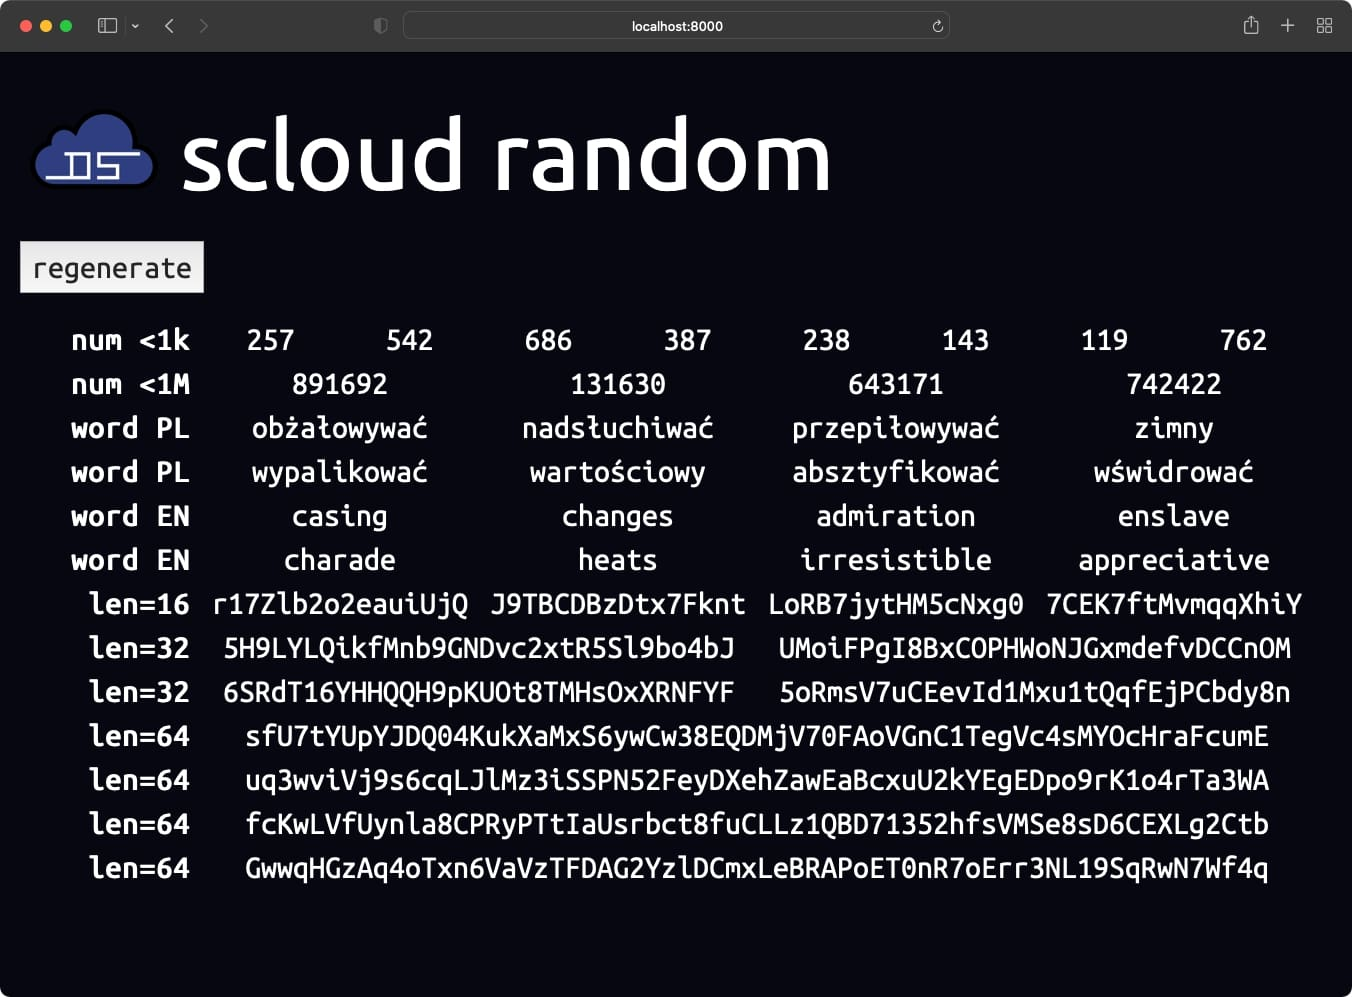
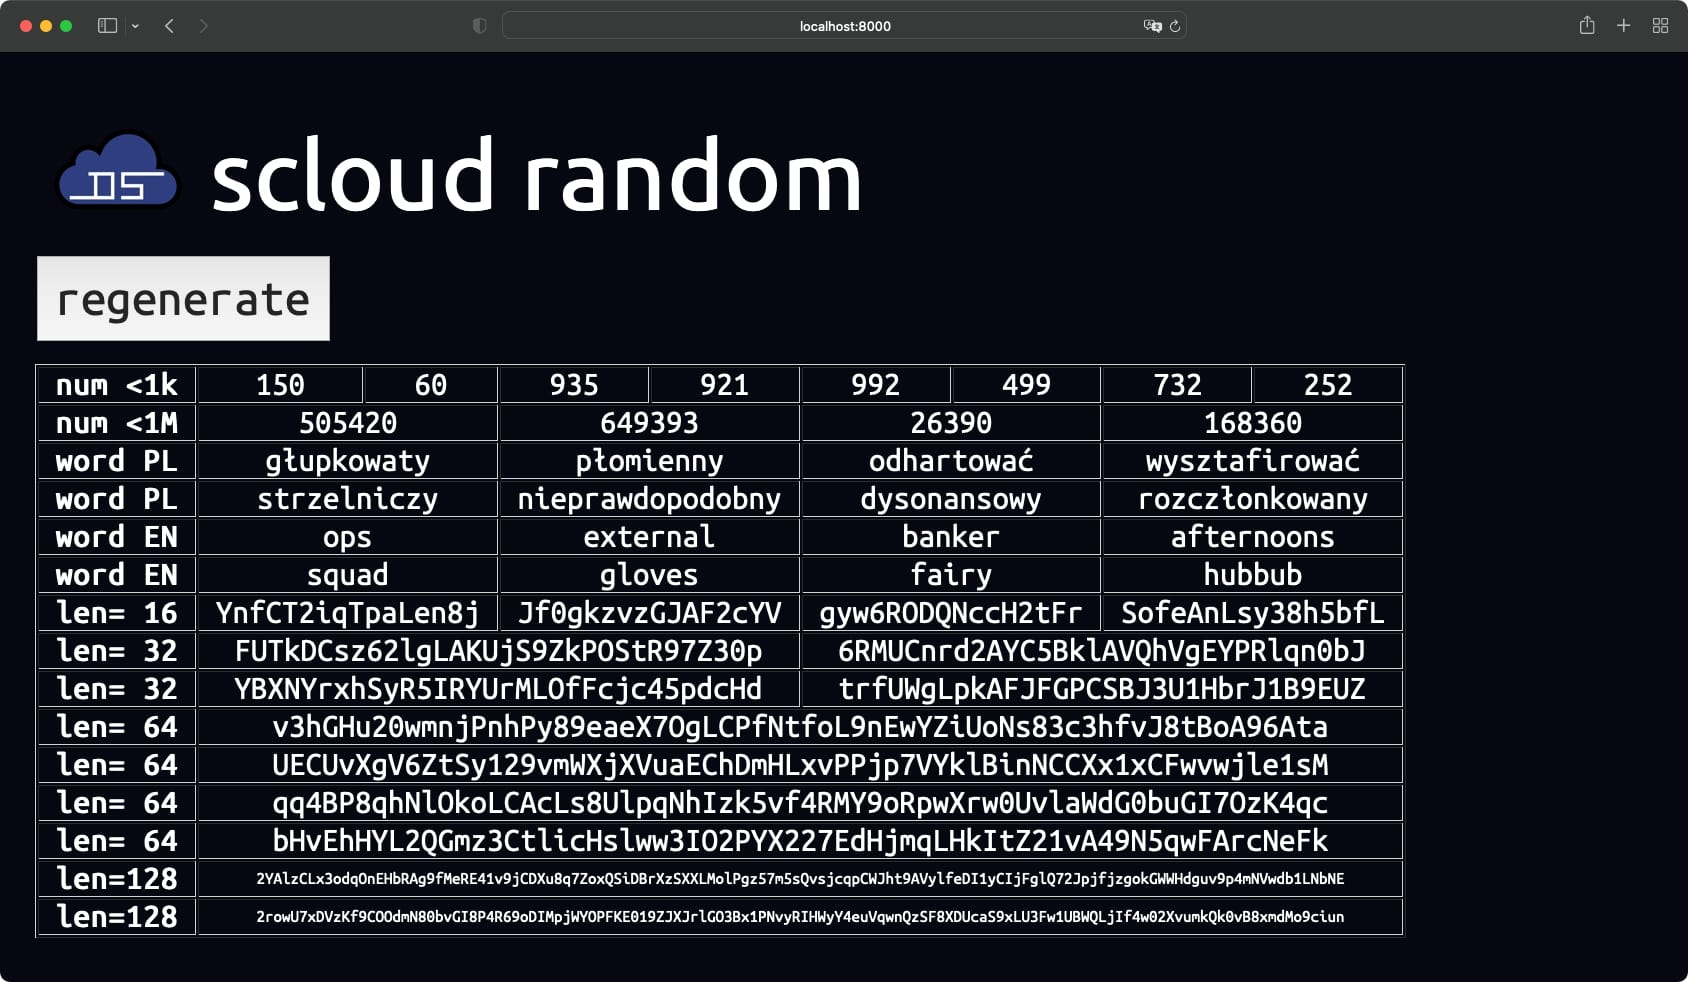
add len=128

diff --git a/index.html b/index.html
@@ -17,13 +17,13 @@
 		#regenerate{
 			font-family: 'Ubuntu Mono', monospace;
 			font-size: 3vw;
-			padding: 10px;
+			padding: 1vw;
 		}
 		td{
-			padding-left:     10px;
-			padding-right:    10px;
-			padding-top:       5px;
-			padding-bottom:    5px;
+			padding-left:     1.0vw;
+			padding-right:    1.0vw;
+			padding-top:      0.5px;
+			padding-bottom:   0.5px;
 
 			text-align: center;
 			font-size: 1.95vw;
@@ -35,7 +35,15 @@
 			text-align: right;
 			font-weight: bold;
 		}
-
+		.rand128 td:not(.header){
+			font-size: 1vw;
+		}
+		
+		@media only screen and (max-width: 1000px) {
+			.rand128 td:not(.header){
+				font-size: 0.75vw;
+			}
+		}
 
 	</style>
 </head>
@@ -63,13 +71,15 @@
 	<tr class="en"><td class="header">word EN</td><td colspan="2">aaaaaaaaaa</td><td colspan="2">aaaaaaaaaa</td><td colspan="2">aaaaaaaaaa</td><td colspan="2">aaaaaaaaaa</td></tr>
 	<tr class="en"><td class="header">word EN</td><td colspan="2">aaaaaaaaaa</td><td colspan="2">aaaaaaaaaa</td><td colspan="2">aaaaaaaaaa</td><td colspan="2">aaaaaaaaaa</td></tr>
 	
-	<tr class="rand16"><td class="header">len=16</td><td colspan="2">aaaaaaaaaaaaaaaa</td><td colspan="2">aaaaaaaaaaaaaaaa</td><td colspan="2">aaaaaaaaaaaaaaaa</td><td colspan="2">aaaaaaaaaaaaaaaa</td></tr>
-	<tr class="rand32"><td class="header">len=32</td><td colspan="4">aaaaaaaaaaaaaaaaaaaaaaaaaaaaaaaa</td><td colspan="4">aaaaaaaaaaaaaaaaaaaaaaaaaaaaaaaa</td></tr>
-	<tr class="rand32"><td class="header">len=32</td><td colspan="4">aaaaaaaaaaaaaaaaaaaaaaaaaaaaaaaa</td><td colspan="4">aaaaaaaaaaaaaaaaaaaaaaaaaaaaaaaa</td></tr>
-	<tr class="rand64"><td class="header">len=64</td><td colspan="8">aaaaaaaaaaaaaaaaaaaaaaaaaaaaaaaaaaaaaaaaaaaaaaaaaaaaaaaaaaaaaaaa</td></tr>
-	<tr class="rand64"><td class="header">len=64</td><td colspan="8">aaaaaaaaaaaaaaaaaaaaaaaaaaaaaaaaaaaaaaaaaaaaaaaaaaaaaaaaaaaaaaaa</td></tr>
-	<tr class="rand64"><td class="header">len=64</td><td colspan="8">aaaaaaaaaaaaaaaaaaaaaaaaaaaaaaaaaaaaaaaaaaaaaaaaaaaaaaaaaaaaaaaa</td></tr>
-	<tr class="rand64"><td class="header">len=64</td><td colspan="8">aaaaaaaaaaaaaaaaaaaaaaaaaaaaaaaaaaaaaaaaaaaaaaaaaaaaaaaaaaaaaaaa</td></tr>
+	<tr class="rand16" ><td class="header">len= 16</td><td colspan="2">aaaaaaaaaaaaaaaa</td><td colspan="2">aaaaaaaaaaaaaaaa</td><td colspan="2">aaaaaaaaaaaaaaaa</td><td colspan="2">aaaaaaaaaaaaaaaa</td></tr>
+	<tr class="rand32" ><td class="header">len= 32</td><td colspan="4">aaaaaaaaaaaaaaaaaaaaaaaaaaaaaaaa</td><td colspan="4">aaaaaaaaaaaaaaaaaaaaaaaaaaaaaaaa</td></tr>
+	<tr class="rand32" ><td class="header">len= 32</td><td colspan="4">aaaaaaaaaaaaaaaaaaaaaaaaaaaaaaaa</td><td colspan="4">aaaaaaaaaaaaaaaaaaaaaaaaaaaaaaaa</td></tr>
+	<tr class="rand64" ><td class="header">len= 64</td><td colspan="8">aaaaaaaaaaaaaaaaaaaaaaaaaaaaaaaaaaaaaaaaaaaaaaaaaaaaaaaaaaaaaaaa</td></tr>
+	<tr class="rand64" ><td class="header">len= 64</td><td colspan="8">aaaaaaaaaaaaaaaaaaaaaaaaaaaaaaaaaaaaaaaaaaaaaaaaaaaaaaaaaaaaaaaa</td></tr>
+	<tr class="rand64" ><td class="header">len= 64</td><td colspan="8">aaaaaaaaaaaaaaaaaaaaaaaaaaaaaaaaaaaaaaaaaaaaaaaaaaaaaaaaaaaaaaaa</td></tr>
+	<tr class="rand64" ><td class="header">len= 64</td><td colspan="8">aaaaaaaaaaaaaaaaaaaaaaaaaaaaaaaaaaaaaaaaaaaaaaaaaaaaaaaaaaaaaaaa</td></tr>
+	<tr class="rand128"><td class="header">len=128</td><td colspan="8">aaaaaaaaaaaaaaaaaaaaaaaaaaaaaaaaaaaaaaaaaaaaaaaaaaaaaaaaaaaaaaaaaaaaaaaaaaaaaaaaaaaaaaaaaaaaaaaaaaaaaaaaaaaaaaaaaaaaaaaaaaaaaaaa</td></tr>
+	<tr class="rand128"><td class="header">len=128</td><td colspan="8">aaaaaaaaaaaaaaaaaaaaaaaaaaaaaaaaaaaaaaaaaaaaaaaaaaaaaaaaaaaaaaaaaaaaaaaaaaaaaaaaaaaaaaaaaaaaaaaaaaaaaaaaaaaaaaaaaaaaaaaaaaaaaaaa</td></tr>
 </table>
 
 <script>
@@ -93,14 +103,17 @@
 	}
 
 	function start_routine(){
-		$.each($(".rand16 td:not(.header)"), function(index, td){
+		$.each($(".rand16  td:not(.header)"), function(index, td){
 			$(td).html(random_string(16));
 		});
-		$.each($(".rand32 td:not(.header)"), function(index, td){
+		$.each($(".rand32  td:not(.header)"), function(index, td){
 			$(td).html(random_string(32));
 		});
-		$.each($(".rand64 td:not(.header)"), function(index, td){
+		$.each($(".rand64  td:not(.header)"), function(index, td){
 			$(td).html(random_string(64));
+		});
+		$.each($(".rand128 td:not(.header)"), function(index, td){
+			$(td).html(random_string(128));
 		});
 
 		$.each($(".pl td:not(.header)"), function(index, td){
